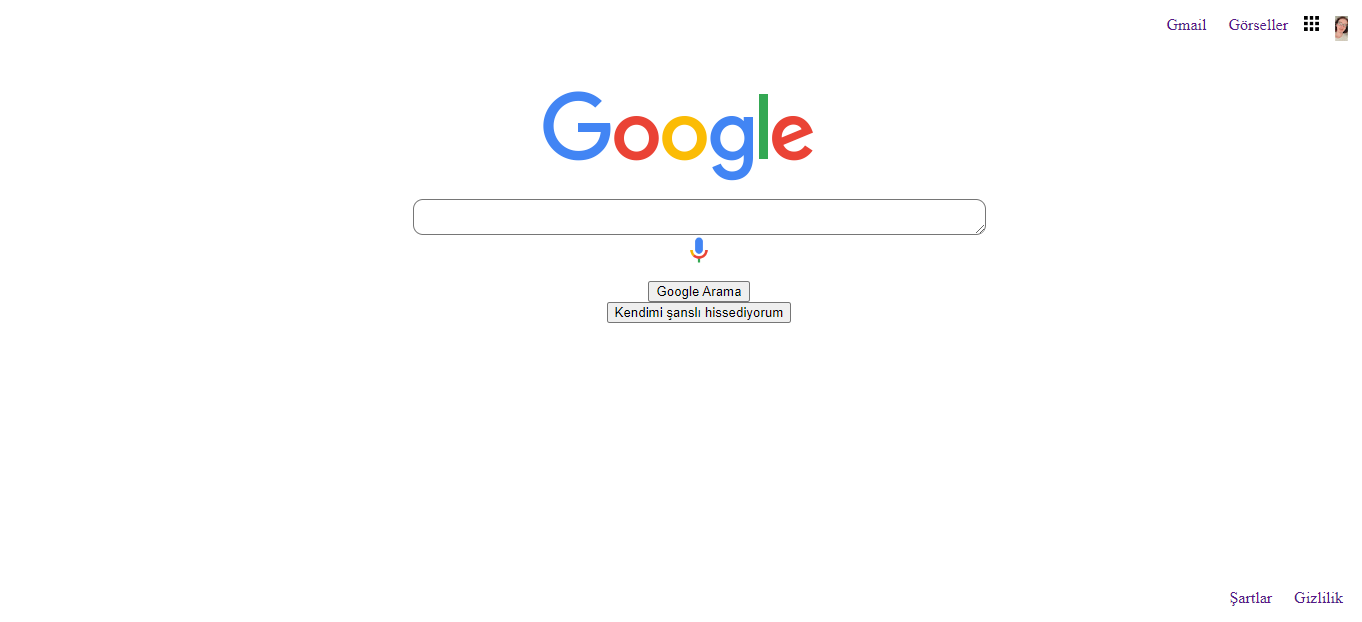
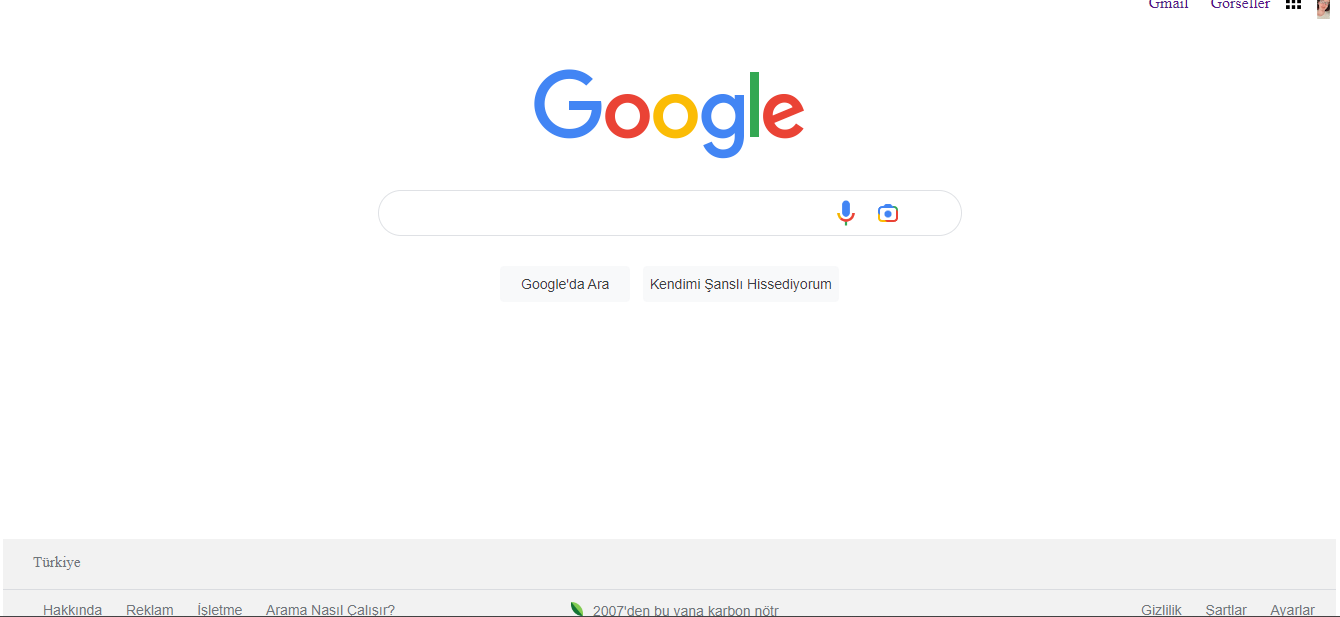
duzenleme ve ekleme yapıldı

diff --git a/css/style.css b/css/style.css
@@ -33,38 +33,97 @@ li.logo img {
     width: 25px;
 }
 
-div.glogo img {
-    display: block;
-    margin: auto;
-    margin-top: 50px;
-}
-
-div.search textarea {
-    display: block;
-    margin: auto;
+#main{
+    align-items: center;
     text-align: center;
-    height: 30px;
-    border-radius: 10px;
+    background-color: #fff;
+    font-family: 'Arial', sans-serif;
+    height: 470px;
+}
+
+.google-logo{
+    width: 280px;
+    height: 92px;
+}
+
+.search{
+    position: relative;
+    height: 160px;
 
 }
 
-li {
-    list-style-type: none;
+.searchdiv{
+    border: #dfe1e5 solid 1px;
+    width: 582px;
+    height: 44px;
+    align-items: center;
+    position: relative;
+    background-color: #fff;
+    margin: 0 auto;
+    display: flex;
+    z-index: 3;
+    box-shadow: none;
+    border-radius: 24px;
+    margin-top: 25px;
 }
 
-.ses img {
-    height: 30px;
+.searchdiv:hover{
+    box-shadow: 0 3px 6px rgba(0,0,0,0.16), 0 3px 6px rgba(0,0,0,0.23);
+}
+
+.searchinput{
+    
+    word-wrap: break-word;
+    border: none transparent;
+    outline: 0;
+    height: 34px;
+    width: 403px;
+    font-size: 16px;
+    margin-left: 15px;
+}
+
+.btn{
+    background-color: #f8f9fa;
+    color: #3c4043;
+    border: 1px solid #f8f9fa;
+    border-radius: 4px;
+    font-family: 'Arial', sans-serif;
+    font-size: 14px;
+    margin: 30px 4px;
+    padding: 20px 16p;
+    line-height: 27px;
+    height: 36px;
+    min-width: 130px;
+    text-align: center;
+    cursor: pointer;
+    user-select: none;
+
+}
+.btn:hover{
+    box-shadow: 0 3px 6px rgba(0,0,0,0.16), 0 3px 6px rgba(0,0,0,0.23);
+}
+
+.fa-sm{
+    color: #9aa0a6;
+    margin-left: 15px;
+
+}
+
+.fa-keyboard{
+    color: #676869;
+
+}
+
+.google-mic{
     width: 30px;
-    display: block;
-    margin-left: auto;
-    margin-right: auto;
+    margin-left: 15px;
+    
 }
 
-.butonlar li button {
-    display: block;
-    margin: auto;
-    margin-right: auto;
-    margin-left: auto;
+.camera-logo{
+    width: 24px;
+    margin-left: 15px;
+
 }
 
 .footer li.sag {
@@ -74,4 +133,78 @@ li {
     padding-right:11px;
     margin-top: 250px;
     margin-bottom: 0px;
+}
+
+#footer{
+    background-color: #f2f2f2;
+}
+
+
+.trk{
+    padding: 15px 30px;
+    font-size: 15px;
+    color: #70757a;
+    border-bottom: 1px solid #dadce0;
+    height: 20px;
+    
+}
+
+.bottom-footer{
+    font-size: 15px;
+    color: #70757a;
+    width: 100%;
+    height: 45px;
+    position: relative;
+}
+
+
+.about{
+    width: 35%;
+    display: inline-block;
+    position: absolute;
+    left: 30px;
+    padding-top: 12px;
+}
+
+.carbon{
+    text-align: center;
+    display: inline-block;
+    align-items: center;
+    width: 25%;
+    position: absolute;
+    left: 510px;
+    padding-top: 12px;
+}   
+
+
+.settings{
+     
+     font-size: 14px;
+     font-family: 'Arial', sans-serif;
+     color: #70757a;
+     width: 15%;
+     display: inline-block;
+     position: absolute;
+     right: 5px;
+     padding-top: 12px;
+}
+
+.bottom-footer a{
+    font-size: 14px;
+    font-family: 'Arial', sans-serif;
+    color: #70757a;
+    padding: 15px 10px 5px;
+}
+
+.leaf{
+    height: 14px;
+}
+
+.carbon-link{
+    font-family: 'Arial', sans-serif;
+    color: #70757a; 
+    font-size: 14px;
+    width: 15%;
+    display: inline;
+    
 }

diff --git a/README.md b/README.md
@@ -1,5 +1,5 @@
-# Project 1
-Geliştirme aşamasında yaptığım ilk proje google ana sayfa clonu
+#CSS ÖDEV 3
+Google Güncel Tasarımı-CSS(Ödev3)
 
 ![Ödev Görseli](/img/1.png)
 
